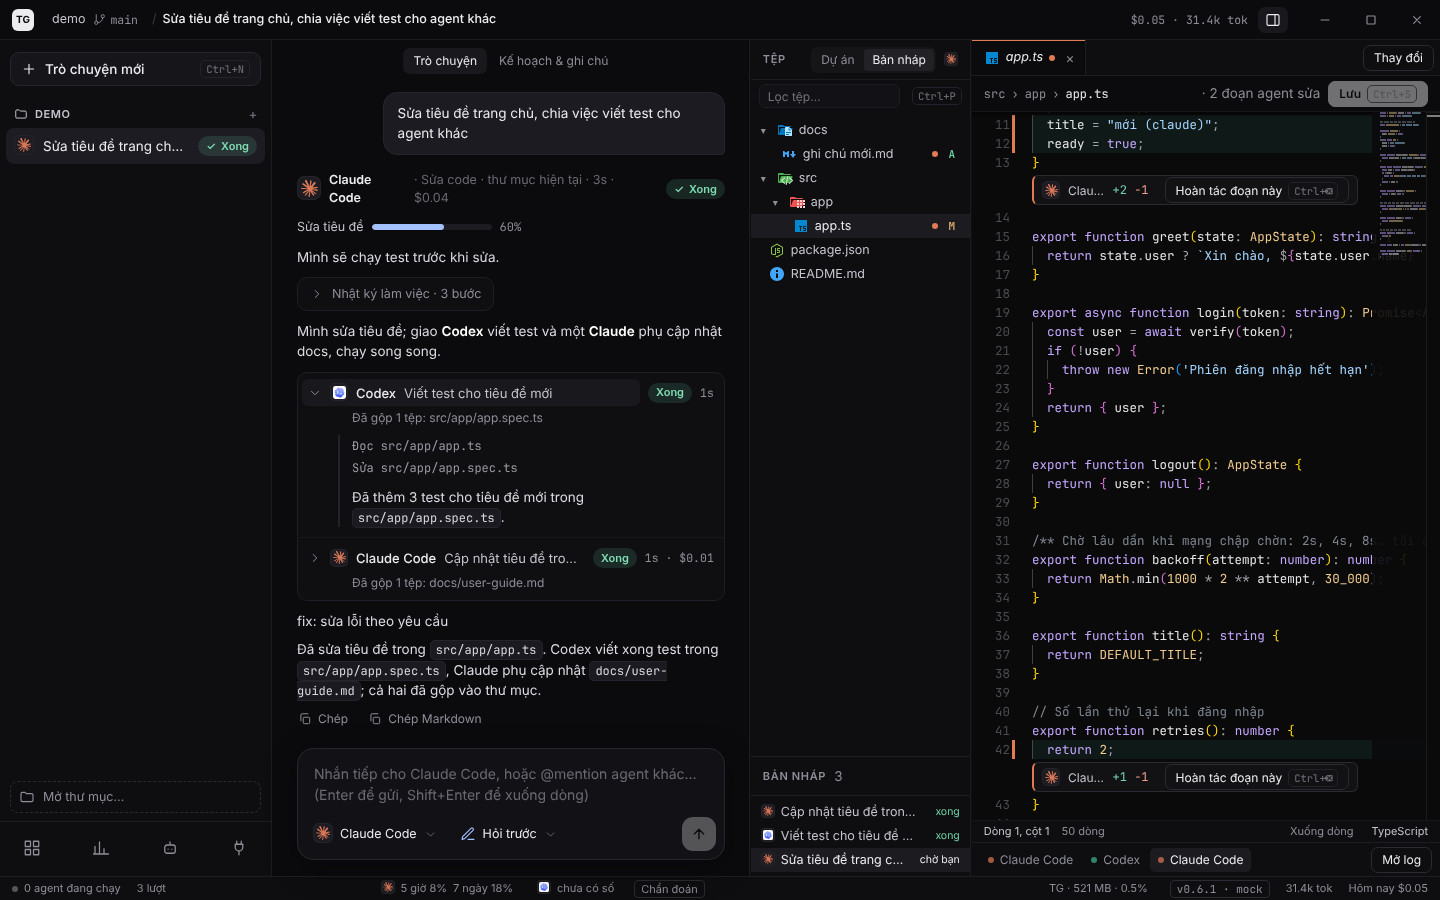
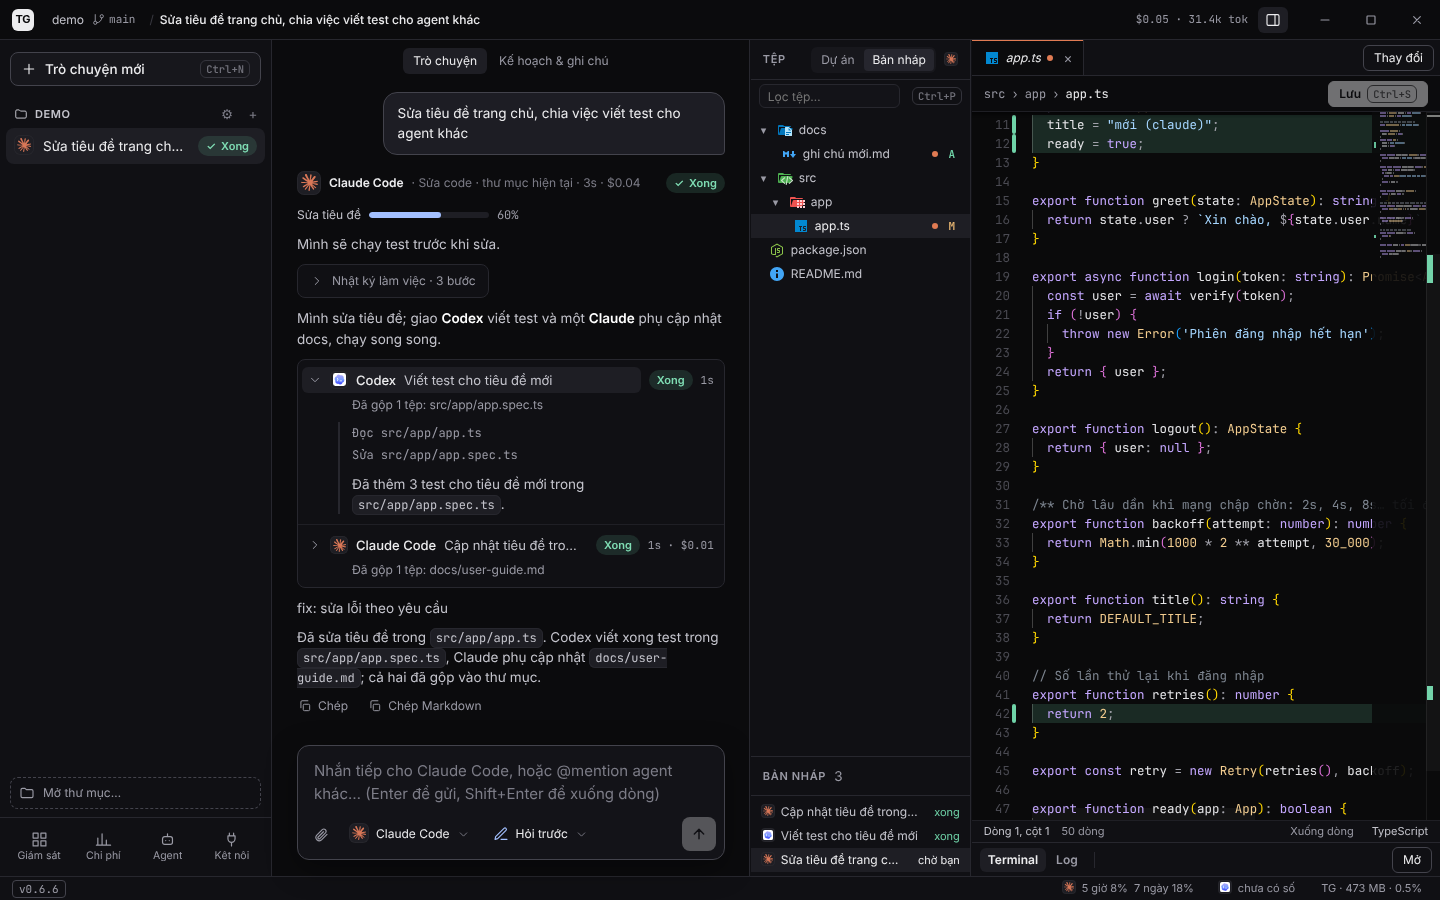
docs: README and screenshots for 0.6.6
README covers attachments, Push/Create PR, the terminal and project
settings, the current folder layout and the Windows claude.exe note.
All README screenshots and the 21 UI review screens are recaptured;
new: attach, terminal, project-settings (19-21 on the review page).
The capture scripts take these shots too (capture-screens.js accepts
an output folder). The project settings row keeps its label beside the
checkbox.

Claude-Session: https://claude.ai/code/session_019ESpyWVEEKKYJq5zzNYY2i

diff --git a/docs/ui-review/index.html b/docs/ui-review/index.html
@@ -262,7 +262,7 @@ textarea.note::placeholder { color: var(--faint); }
 
 <script>
 /* Update after `node scripts/capture-ui-review.js`. */
-const META = { version: '0.6.1', date: '10/11/2026' };
+const META = { version: '0.6.6', date: '13/11/2026' };
 const FLOWS = [
   { id: 'start', title: 'Bắt đầu', desc: 'Mở app lần đầu và vào một dự án.', screens: [
     { id: '01-welcome', title: 'Màn chào khi chưa mở dự án', checks: ['Một nút chính duy nhất: Mở thư mục dự án', 'Logo thật của 4 agent, nhãn Sẵn sàng / Chép lệnh cài', 'Thanh tiêu đề riêng của app, có nút cửa sổ'] },
@@ -278,9 +278,11 @@ const FLOWS = [
   { id: 'working', title: 'Agent làm việc', desc: 'Từ lúc gửi yêu cầu tới lúc duyệt thay đổi.', screens: [
     { id: '07-approval-status', title: 'Agent xin phép chạy lệnh', checks: ['Thẻ duyệt vàng ghim ngay trên ô chat', 'Dòng trạng thái vàng "đang chờ bạn" + Dừng (Esc)', 'Cột trái: nhãn vàng Chờ duyệt; icon Giám sát có số 1'] },
     { id: '08-running-status', title: 'Agent đang làm', checks: ['Dòng trạng thái xanh: tên agent, 3 chấm, đồng hồ, việc đang làm', 'Nhật ký làm việc mở và chạy trực tiếp', 'Nút gửi đổi thành nút dừng'] },
-    { id: '09-done-changes', title: 'Agent làm xong, có thay đổi', checks: ['Câu trả lời Markdown; nhật ký thu gọn còn 1 dòng', 'Thẻ "N tệp đã đổi · đã ở trong code của bạn"', 'Editor đánh dấu đoạn agent sửa, nút Hoàn tác đoạn này (không bắt buộc)', 'Chép / Chép Markdown dưới câu trả lời'] },
-    { id: '17-changes', isNew: true, title: 'Tab Thay đổi kiểu git', checks: ['Tổng "N tệp · +A −R", ô nội dung commit gợi ý từ yêu cầu, nút Commit N tệp', 'Nhóm Của agent (đã chọn) và Bạn tự sửa (chưa chọn), có avatar agent', 'Nút ↶ hoàn tác từng tệp và Hoàn tác tất cả'] },
-    { id: '18-delegate', isNew: true, title: 'Agent giao việc cho agent khác', checks: ['Dòng Codex và Claude phụ lồng ngay chỗ Claude đã giao', 'Mỗi dòng: trạng thái, thời gian, chi phí, tệp đã gộp', 'Bấm vào để xem nhật ký của agent con ngay tại chỗ'] },
+    { id: '09-done-changes', title: 'Agent làm xong, có thay đổi', checks: ['Câu trả lời Markdown; nhật ký thu gọn còn 1 dòng', 'Thẻ "N tệp đã đổi · đã ở trong code của bạn"', 'Editor đánh dấu đoạn agent sửa bằng vạch màu', 'Chép / Chép Markdown dưới câu trả lời'] },
+    { id: '17-changes', title: 'Tab Thay đổi kiểu git', checks: ['Tổng "N tệp · +A −R", ô nội dung commit gợi ý từ yêu cầu, nút Commit N tệp', 'Dòng nhánh: số commit chưa push, Tạo PR, Push', 'Nhóm Của agent (đã chọn) và Bạn tự sửa (chưa chọn), có avatar agent', 'Nút ↶ hoàn tác từng tệp và Hoàn tác tất cả'] },
+    { id: '18-delegate', title: 'Agent giao việc cho agent khác', checks: ['Dòng Codex và Claude phụ lồng ngay chỗ Claude đã giao', 'Mỗi dòng: trạng thái, thời gian, chi phí, tệp đã gộp', 'Bấm vào để xem nhật ký của agent con ngay tại chỗ'] },
+    { id: '19-attach', isNew: true, title: 'Đính kèm ảnh và tệp', checks: ['Dán ảnh (Ctrl+V), kéo thả, hoặc nút kẹp giấy ở góc ô chat', 'Ảnh nhỏ và thẻ tên tệp, mỗi cái có nút ×', 'Tin đã gửi hiện ảnh và tên tệp, kể cả khi mở lại'] },
+    { id: '20-terminal', isNew: true, title: 'Terminal của cuộc trò chuyện', checks: ['Tab Terminal ở khung dưới, mở đúng thư mục agent đang làm', 'Tab Log bên cạnh vẫn xem được log của từng lượt', 'Thu gọn / Mở'] },
   ]},
   { id: 'ask', title: 'Hỏi đáp', desc: 'Câu hỏi Chỉ hỏi: đọc, trả lời, không sửa tệp.', screens: [
     { id: '10-question-typing', title: 'Agent đang trả lời', checks: ['Con trỏ nhấp nháy ở cuối câu đang viết', 'Dòng trạng thái "đang trả lời" ngay trên ô chat'] },
@@ -291,6 +293,7 @@ const FLOWS = [
     { id: '14-usage', title: 'Chi phí', checks: ['Biểu đồ theo ngày, bảng lượt chạy có logo agent', 'Ngân sách và bảng giá ở cột phải'] },
     { id: '15-agents', title: 'Agent', checks: ['Danh sách agent, phiên bản, trạng thái đăng nhập', 'Nút Dò lại'] },
     { id: '16-integrations', title: 'Kết nối', checks: ['MCP server và Skills'] },
+    { id: '21-project-settings', isNew: true, title: 'Thiết lập dự án', checks: ['Nút ⚙ cạnh tên dự án ở cột trái', 'Script chuẩn bị chạy trong mỗi bản nháp mới', 'Lệnh kiểm tra sau mỗi lượt; hỏng thì gửi lỗi cho agent tự sửa, tối đa N lần'] },
   ]},
 ];
 const SCREENS = FLOWS.flatMap((f) => f.screens.map((s) => ({ ...s, flow: f })));

diff --git a/scripts/capture-screens.js b/scripts/capture-screens.js
@@ -3,7 +3,7 @@
 // the Playwright MCP tool browser_run_code_unsafe with filename scripts/capture-screens.js).
 async (page) => {
   const W = 1440, H = 900;
-  const out = '/Users/trangioi/Documents/vibe-code/tg-studio/docs/images';
+  const out = globalThis.TG_SHOTS_OUT ?? '/Users/trangioi/Documents/vibe-code/tg-studio/docs/images';
   const ctx = await page.context().browser().newContext({ viewport: { width: W, height: H }, colorScheme: 'dark', deviceScaleFactor: 1 });
   const p = await ctx.newPage();
   await p.addInitScript(() => {
@@ -55,11 +55,38 @@ async (page) => {
   await p.waitForSelector('.chg-row');
   await shot('chat-review');
 
+  // The conversation's own shell, under the Changes tab.
+  await p.click('button.term-tab:has-text("Terminal")');
+  await p.waitForTimeout(1200);
+  await p.keyboard.type('npm test');
+  await p.keyboard.press('Enter');
+  await shot('terminal');
+
   // Xoá một cuộc trò chuyện, xác nhận ngay tại dòng.
   await p.hover('.tl-item');
   await p.click('.tl-del');
   await p.waitForSelector('.tl-confirm');
   await shot('delete');
+
+  // Ảnh chụp lỗi và một tệp đính kèm; Tự động để không có thẻ duyệt che tin nhắn.
+  await fresh();
+  await p.click('.chip-btn[aria-haspopup="true"] >> nth=1');
+  await p.click('button.opt:has-text("Tự động")');
+  await p.setInputFiles('input[type=file]', [`${out}/approval.png`, `${out}/../../package.json`]);
+  await ask('Nút Gửi bị lệch như trong ảnh, sửa giúp');
+  await p.waitForSelector('tg-user-message .msg-thumb img');
+  await p.waitForSelector('.pill[data-status="waiting"]', { timeout: 15000 });
+  await p.waitForTimeout(3500);
+  await p.setInputFiles('input[type=file]', [`${out}/skills.png`]);
+  await p.fill('textarea#prompt', 'Màn này cũng lệch');
+  await shot('attach');
+
+  // Thiết lập dự án: script chuẩn bị bản nháp và lệnh kiểm tra.
+  await fresh();
+  await p.click('button[aria-label^="Thiết lập dự án"]');
+  await p.fill('.hk-form textarea', 'npm ci');
+  await p.fill('.hk-form input.mono', 'npm test');
+  await shot('project-settings');
 
   // Claude giao một phần việc cho Codex và một Claude phụ (mock: "chia việc" trong yêu cầu).
   await fresh();

diff --git a/scripts/capture-ui-review.js b/scripts/capture-ui-review.js
@@ -100,6 +100,13 @@ function hasFfmpeg() {
   await p.waitForSelector('.chg-row');
   await shot('17-changes');
 
+  // The terminal sits under the Changes tab of the run just finished.
+  await p.click('button.term-tab:has-text("Terminal")');
+  await p.waitForTimeout(1200);
+  await p.keyboard.type('npm test');
+  await p.keyboard.press('Enter');
+  await shot('20-terminal');
+
   await fresh();
   await ask('Sửa tiêu đề trang chủ, chia việc viết test cho agent khác');
   await p.waitForSelector('tg-permission-card');
@@ -108,6 +115,19 @@ function hasFfmpeg() {
   await done();
   await p.click('.dlg-toggle >> nth=0');
   await shot('18-delegate');
+
+  // A screenshot of the bug and a log, attached to the request.
+  // Tự động, so no approval card covers the sent message and its thumbnail.
+  await fresh();
+  await chip(1);
+  await p.click('button.opt:has-text("Tự động")');
+  await p.setInputFiles('input[type=file]', [path.join(out, '../../images/approval.png'), path.resolve('package.json')]);
+  await ask('Nút Gửi bị lệch như trong ảnh, sửa giúp');
+  await p.waitForSelector('tg-user-message .msg-thumb img');
+  await done();
+  await p.setInputFiles('input[type=file]', [path.join(out, '../../images/skills.png')]);
+  await p.fill('textarea#prompt', 'Màn này cũng lệch');
+  await shot('19-attach');
 
   // Hỏi đáp
   await fresh();
@@ -127,6 +147,12 @@ function hasFfmpeg() {
     await shot(id);
     await p.click(`button.tl-screen[aria-label="${label}"]`);
   }
+
+  await fresh();
+  await p.click('button[aria-label^="Thiết lập dự án"]');
+  await p.fill('.hk-form textarea', 'npm ci');
+  await p.fill('.hk-form input.mono', 'npm test');
+  await shot('21-project-settings');
 
   await browser.close();
   if (!webp) console.log('Không có ffmpeg: giữ ảnh PNG, hãy đổi sang WebP trước khi commit.');

diff --git a/site/index.html b/site/index.html
@@ -150,7 +150,7 @@ footer .wrap { display: flex; flex-wrap: wrap; gap: 8px 20px; }
   <section>
     <div class="wrap">
       <h2>Giao diện</h2>
-      <p class="sub">Ảnh chụp ở chế độ mẫu. Xem đủ 16 màn hình và chế độ trình chiếu ở <a href="ui-review/">trang toàn cảnh</a>.</p>
+      <p class="sub">Ảnh chụp ở chế độ mẫu. Xem đủ 21 màn hình và chế độ trình chiếu ở <a href="ui-review/">trang toàn cảnh</a>.</p>
       <div class="gallery">
         <figure><a href="ui-review/img/03-agent-model.webp" target="_blank" rel="noopener" title="Xem ảnh lớn"><img src="ui-review/img/03-agent-model.webp" alt="Chọn agent, model và mức suy nghĩ" loading="lazy" width="1440" height="900"></a><figcaption>Chọn agent, model và mức suy nghĩ</figcaption></figure>
         <figure><a href="ui-review/img/07-approval-status.webp" target="_blank" rel="noopener" title="Xem ảnh lớn"><img src="ui-review/img/07-approval-status.webp" alt="Agent xin phép chạy lệnh" loading="lazy" width="1440" height="900"></a><figcaption>Agent xin phép, bạn duyệt ngay trên ô chat</figcaption></figure>

diff --git a/src/styles.scss b/src/styles.scss
@@ -1093,6 +1093,7 @@ input, textarea, select { transition: background-color var(--t-fast) var(--ease)
 .hk-form { display: flex; flex-direction: column; gap: 10px; margin: 4px 8px 10px; padding: 10px; border: 1px solid var(--line); border-radius: var(--r-md); background: var(--raised); font-size: var(--fs-sm); }
 .hk-form textarea, .hk-form input.mono { font-size: 12px; }
 .hk-row { display: flex; align-items: center; gap: 6px; flex-wrap: wrap; }
+.hk-row > span:first-of-type { flex: 1 1 150px; min-width: 0; }
 .hk-rounds { width: 44px; }
 .hk-actions { display: flex; align-items: center; justify-content: flex-end; gap: 6px; }
 .tl-add.active { color: var(--text); background: var(--hover); }

diff --git a/README.md b/README.md
@@ -2,17 +2,19 @@
 
 App desktop để chat và giao việc cho nhiều coding agent (**Claude Code, Codex, Gemini CLI, Kiro CLI**) trên cùng một dự án. Chạy trên macOS và Windows; giao diện Angular, lõi Rust (Tauri 2).
 
-> **Trạng thái: v0.6.1, mốc M5 của đợt làm lại trải nghiệm chính (chat-first).**
+> **Trạng thái: v0.6.6, mốc M5 của đợt làm lại trải nghiệm chính (chat-first).**
 >
 > Đã có:
 > - chat nhiều câu trong một phiên agent, 3 quyền (Chỉ hỏi, Hỏi trước, Tự động), làm thẳng trong thư mục hoặc trong bản nháp;
-> - tab Thay đổi kiểu git: commit hoặc hoàn tác theo tệp;
+> - đính kèm ảnh chụp màn hình và tệp vào tin nhắn (dán, kéo thả, nút kẹp giấy);
+> - tab Thay đổi kiểu git: commit hoặc hoàn tác theo tệp, Push và Tạo PR;
+> - terminal riêng cho từng cuộc trò chuyện; thiết lập dự án (script chuẩn bị bản nháp, lệnh kiểm tra sau mỗi lượt);
 > - agent tự giao một phần việc cho agent khác, hiện lồng trong cuộc trò chuyện;
 > - chạy song song, so sánh và ghép kết quả, Theo các bước, Giám sát;
 > - Chi phí: giá, ngân sách, CSV, hạn mức gói Claude và Codex;
 > - MCP, gọi skill bằng `/`, báo khi có bản mới.
 >
-> Đã kiểm chứng với Claude và Codex thật; Gemini, Kiro và phần agent con chưa.
+> Đã kiểm chứng với Claude và Codex thật; Gemini, Kiro, phần agent con và đính kèm chưa.
 >
 > Còn lại: nghiệm thu trên máy thật macOS và Windows, ký số, tự cập nhật. Xem [docs/02-roadmap.md](docs/02-roadmap.md); cách dùng: [docs/user-guide.md](docs/user-guide.md).
 
@@ -20,7 +22,11 @@ App desktop để chat và giao việc cho nhiều coding agent (**Claude Code, 
 
 **Chat với agent:** cột trái là dự án và các cuộc trò chuyện, có nhãn trạng thái (Đang làm, Chờ duyệt, Xong, Lỗi). Các bước agent làm gom vào một dòng Nhật ký làm việc, câu trả lời hiển thị Markdown.
 
-**Thay đổi kiểu git:** tab Thay đổi giống Source Control. Đầu tab ghi tổng (ví dụ "12 tệp · +340 −120") và có ô nội dung commit gợi ý sẵn từ yêu cầu. Tệp chia hai nhóm: tệp agent sửa (mặc định chọn để commit) và tệp bạn tự sửa trước đó (mặc định không chọn). Commit chỉ lấy tệp đã chọn. Hoàn tác trả tệp về đúng như trước khi agent sửa, không về commit cuối, nên phần bạn đang sửa dở không mất.
+**Đính kèm ảnh và tệp:** dán ảnh chụp lỗi giao diện (Ctrl+V), kéo thả tệp vào ô chat hoặc bấm nút kẹp giấy. Ảnh hiện thành ảnh nhỏ, tệp thành thẻ tên, bấm × để bỏ. Ảnh gửi thẳng cho agent nhận ảnh (Claude, Codex…), tệp chữ nhỏ gửi kèm nội dung, tệp khác gửi đường dẫn để agent tự mở. Tệp lưu trong thư mục dữ liệu của app, không ghi vào repo, và vẫn hiện khi mở lại cuộc trò chuyện.
+
+![Tin nhắn có ảnh chụp lỗi và tệp đính kèm](docs/images/attach.png)
+
+**Thay đổi kiểu git:** tab Thay đổi giống Source Control. Đầu tab ghi tổng (ví dụ "12 tệp · +340 −120") và có ô nội dung commit gợi ý sẵn từ yêu cầu. Tệp chia hai nhóm: tệp agent sửa (mặc định chọn để commit) và tệp bạn tự sửa trước đó (mặc định không chọn). Commit chỉ lấy tệp đã chọn. Hoàn tác trả tệp về đúng như trước khi agent sửa, không về commit cuối, nên phần bạn đang sửa dở không mất. Dòng nhánh cho biết số commit chưa đẩy, có nút **Push** và **Tạo PR** (cần GitHub CLI `gh`); app không bao giờ push `--force`. Editor chỉ đánh dấu đoạn agent sửa bằng vạch màu, không còn duyệt từng đoạn.
 
 ![Chat, thẻ thay đổi và tab Thay đổi](docs/images/chat-review.png)
 
@@ -31,6 +37,16 @@ App desktop để chat và giao việc cho nhiều coding agent (**Claude Code, 
 - Subagent có sẵn của Claude Code cũng hiện như vậy.
 
 ![Claude giao Codex viết test và một Claude phụ cập nhật docs](docs/images/delegate.png)
+
+**Terminal:** khung dưới có tab Terminal, mỗi cuộc trò chuyện một shell, mở đúng thư mục agent đang làm (bản nháp hoặc thư mục dự án). Tab Log bên cạnh vẫn xem log của từng lượt.
+
+![Terminal của cuộc trò chuyện dưới tab Thay đổi](docs/images/terminal.png)
+
+**Thiết lập dự án:** nút ⚙ cạnh tên dự án ở cột trái.
+- *Script chuẩn bị* chạy một lần trong mỗi bản nháp mới, trước khi agent bắt đầu (ví dụ `npm ci`, chép `.env` qua `TG_ROOT_PATH`).
+- *Lệnh kiểm tra* chạy sau mỗi lượt agent có sửa tệp; hỏng thì app gửi lỗi cho agent tự sửa, tối đa số lần bạn chọn.
+
+![Thiết lập dự án](docs/images/project-settings.png)
 
 **Duyệt lệnh:** thẻ duyệt ghim ngay trên ô chat, kể cả thẻ của agent con.
 
@@ -58,10 +74,10 @@ App desktop để chat và giao việc cho nhiều coding agent (**Claude Code, 
 
 <sub>Ảnh chụp ở chế độ mock (`npm start`), dữ liệu là mẫu. Chụp lại: `npm start -- --port 4321`, rồi chạy `scripts/capture-screens.js` bằng Playwright (ảnh trong `docs/images/`) và `node scripts/capture-ui-review.js` (ảnh của trang review và trang tải).</sub>
 
-**Review giao diện:** mở `docs/ui-review/index.html` trong trình duyệt.
-- **Toàn cảnh** xếp 18 màn hình theo luồng trên một bảng kéo, phóng to được.
-- **▶ Trình chiếu** chạy lần lượt từng màn kèm chú thích.
+**Review giao diện:** mở `docs/ui-review/index.html` trong trình duyệt (bản trên trang tải: `/ui-review/`).
+- **Bộ sưu tập** (mặc định) hiện 21 màn hình theo luồng, lọc theo luồng, màn mới có nhãn "Mới"; bấm để xem lớn.
 - **Review** để đánh dấu Đạt / Cần sửa và chép kết quả.
+- **Toàn cảnh** xếp các màn trên một bảng kéo, phóng to được; **▶ Trình chiếu** chạy lần lượt từng màn kèm chú thích.
 
 ## Cài môi trường (một lần)
 
@@ -79,7 +95,7 @@ Cần Node 20 trở lên (`node -v`; dùng nvm cũng được).
 
 Windows: cài Rust (rustup), Node 20+, và *Visual Studio Build Tools* với gói "Desktop development with C++".
 
-Agent nào muốn dùng thì cài CLI của agent đó và đăng nhập một lần trong terminal (`claude`, `codex`, `gemini`, `kiro-cli`). Chế độ Sửa code chạy qua adapter ACP; cài sẵn thì khỏi tải bằng `npx` mỗi lần mở phiên:
+Agent nào muốn dùng thì cài CLI của agent đó và đăng nhập một lần trong terminal (`claude`, `codex`, `gemini`, `kiro-cli`). Trên Windows, Sửa code với Claude dùng `claude.exe` của Claude Code đã cài (bộ cài chính thức `irm https://claude.ai/install.ps1 | iex`, hoặc `npm i -g @anthropic-ai/claude-code` bản 2.x). Chế độ Sửa code chạy qua adapter ACP; cài sẵn thì khỏi tải bằng `npx` mỗi lần mở phiên:
 
 ```bash
 npm i -g @agentclientprotocol/claude-agent-acp@0.100.0 @agentclientprotocol/codex-acp@2.5.0
@@ -138,25 +154,22 @@ Chi tiết: [docs/user-guide.md](docs/user-guide.md).
 ## Cấu trúc
 
 ```
-src/app/                 giao diện, chia theo tính năng
-  chat/                  ô chat, dòng chat, thẻ duyệt, agent con (delegations)
-  workspace/             cây tệp, editor Monaco, tab Thay đổi, so sánh và ghép
-  runs/                  run, cuộc trò chuyện, Theo các bước, Giám sát
-  agents/                dò agent, model, onboarding
-  usage/                 Chi phí, giá, ngân sách, hạn mức
-  integrations/          MCP, skills, tg-bridge
-  shell/                 khung app: cột trái, thanh tiêu đề, thanh dưới
-  shared/                tiện ích dùng chung
+src/app/                 giao diện
   core/                  protocol (kiểu chung với Rust), backend (Tauri | mock)
+  services/              state dùng chung: runs, agents, usage, app (UI, layout, terminal, đính kèm)
+  layout/                khung app: cột trái, thanh tiêu đề, thanh dưới, thiết lập dự án
+  features/              mỗi màn một thư mục: chat, files, editor, changes, compare,
+                         workbench (khung dưới, terminal), monitor, usage, connections, agents
+  shared/                ui/ widget dùng chung, utils/ hàm thuần
 src-tauri/src/           lõi Rust
   agents/                danh sách agent, dò CLI, model và lệnh của agent
   acp/                   ACP client (JSON-RPC), fs và terminal cho agent
   tasks/                 task sửa code: phiên, thay đổi, agent con, phiên mở sẵn
-  workspace/             dự án, worktree, diff, ghép
+  workspace/             dự án, worktree, diff, ghép, push/PR, hook dự án
   integrations/          tg-bridge, MCP, skills, chính sách lệnh
   usage/                 chuẩn hoá token và chi phí, sổ usage
   store/                 lịch sử (SQLite)
-  system/                PATH, tài nguyên, chẩn đoán, phiên bản
+  system/                PATH, tài nguyên, chẩn đoán, phiên bản, terminal, đính kèm
 docs/ARCHITECTURE.md     kiến trúc và hợp đồng sự kiện
 ```
 

diff --git a/CHANGELOG.md b/CHANGELOG.md
@@ -4,6 +4,12 @@
 
 ## [Chưa phát hành]
 
+### Thay đổi
+- README, ảnh chụp giao diện và trang review (21 màn) cập nhật theo bản 0.6.6: đính kèm, terminal, thiết lập dự án, Push/Tạo PR.
+
+### Sửa lỗi
+- Thiết lập dự án: dòng "Kiểm tra hỏng thì gửi lỗi cho agent tự sửa" nằm cạnh ô đánh dấu thay vì rớt xuống dòng riêng.
+
 ## [0.6.6] - 2026-11-13
 
 ### Thêm
